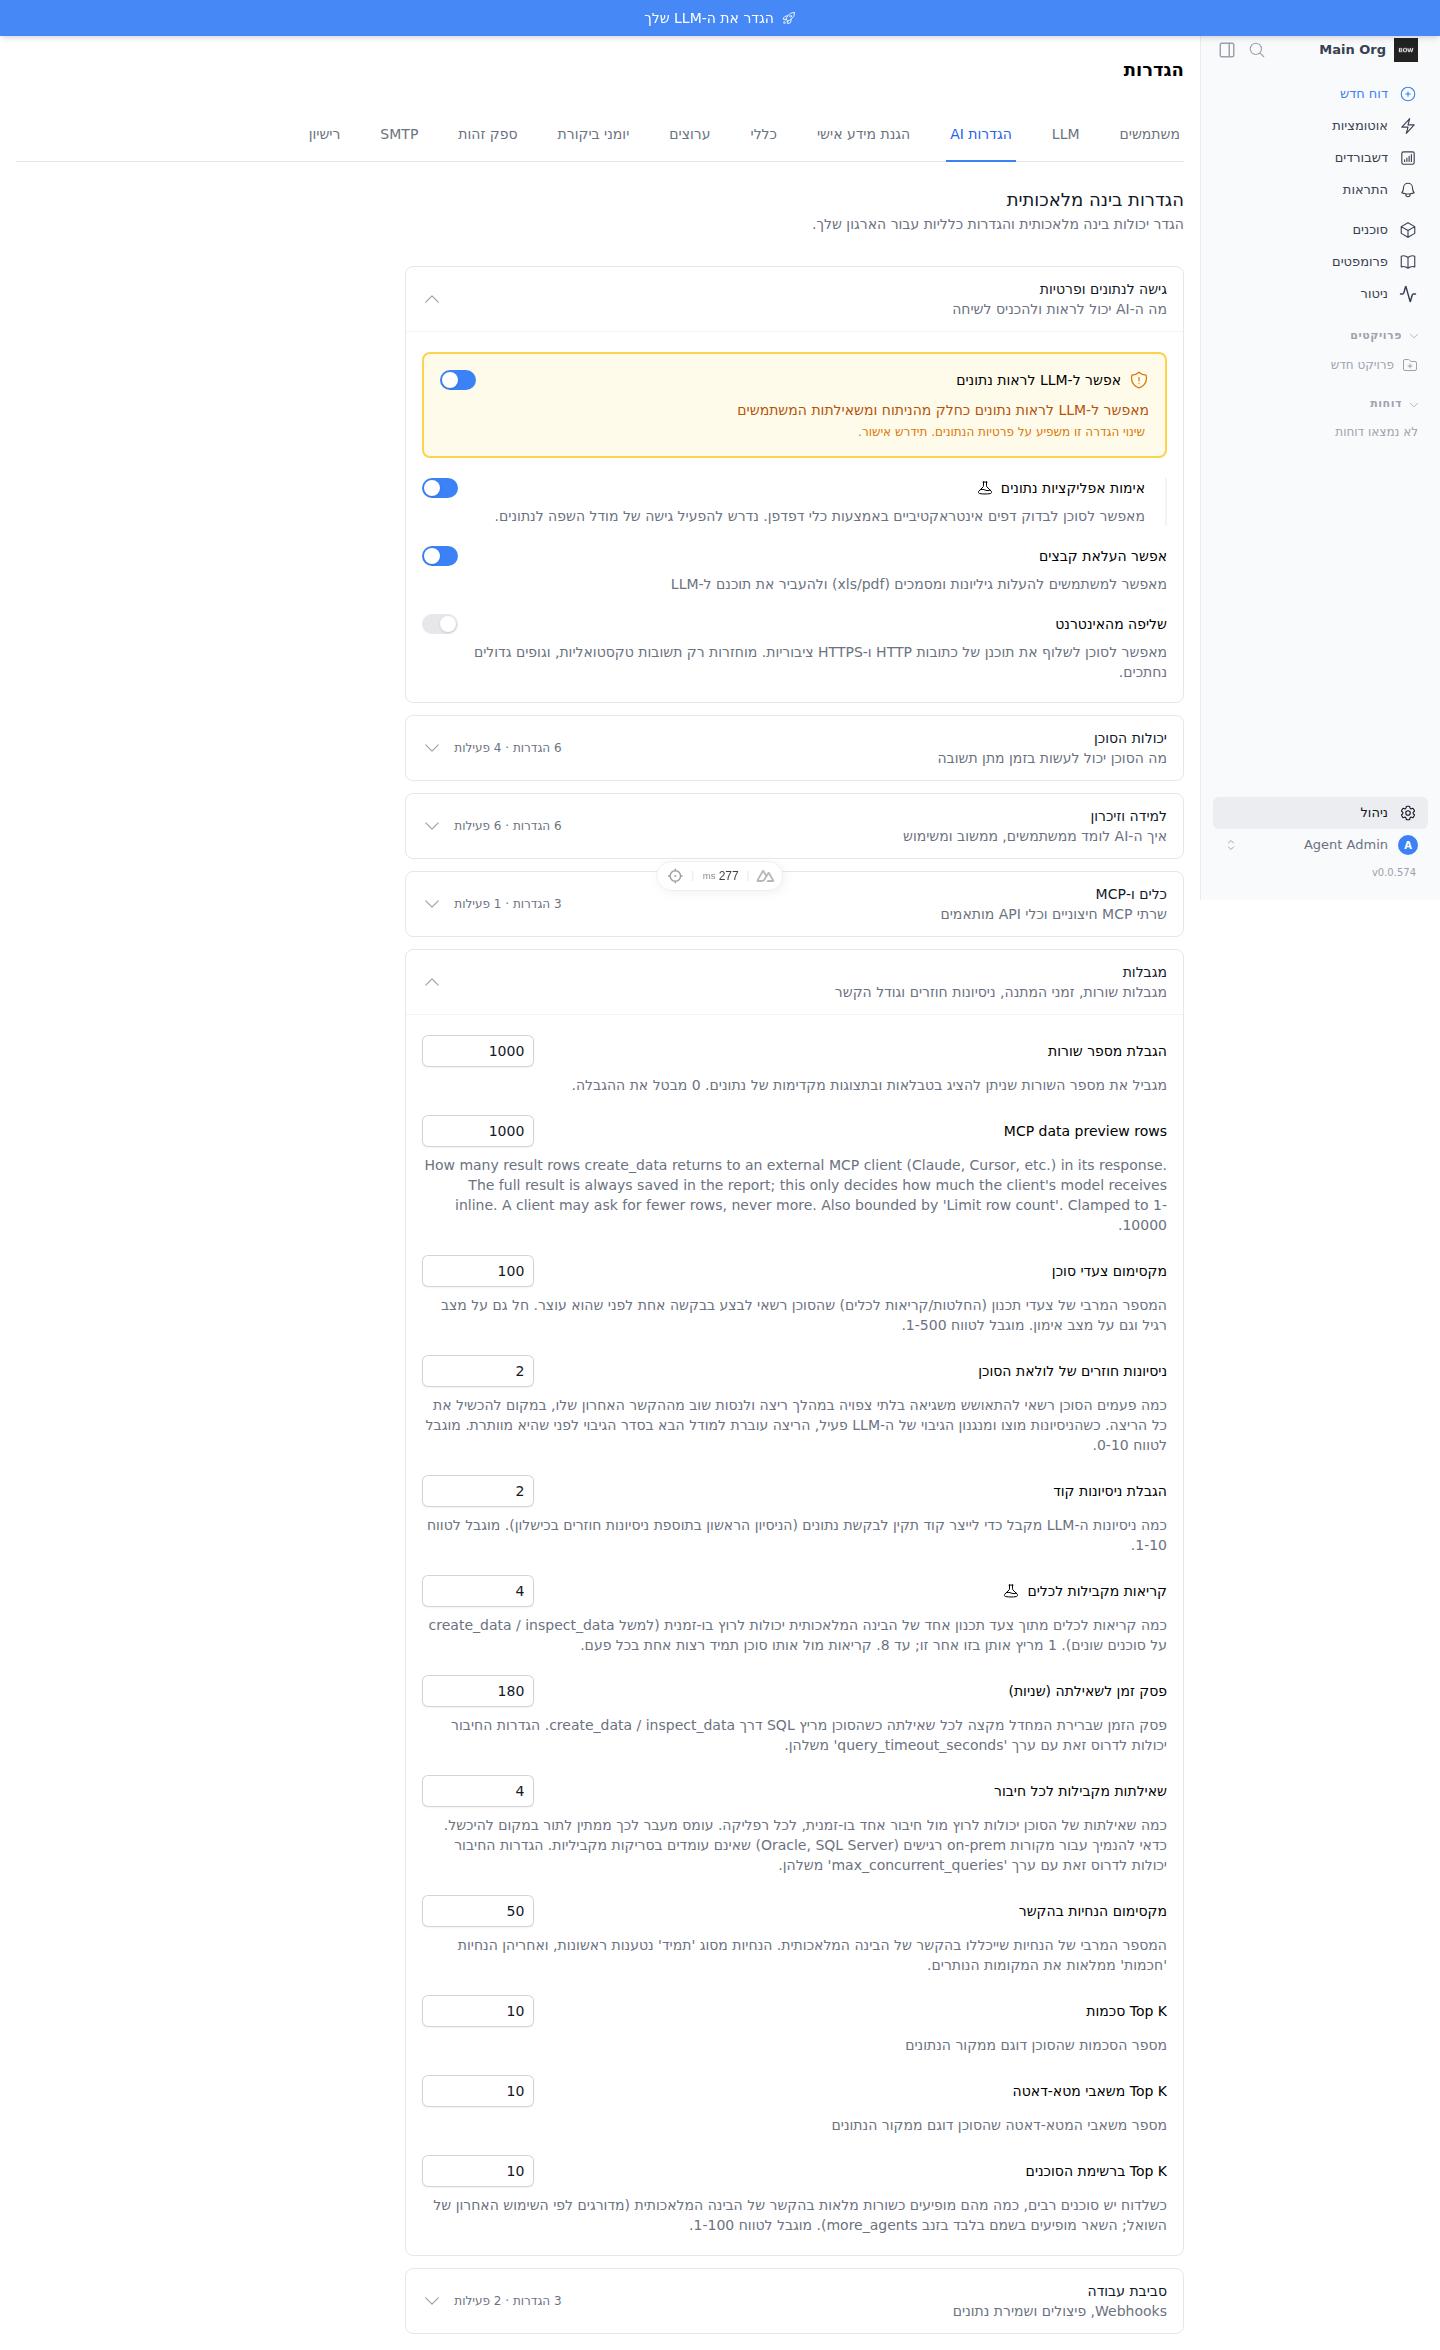
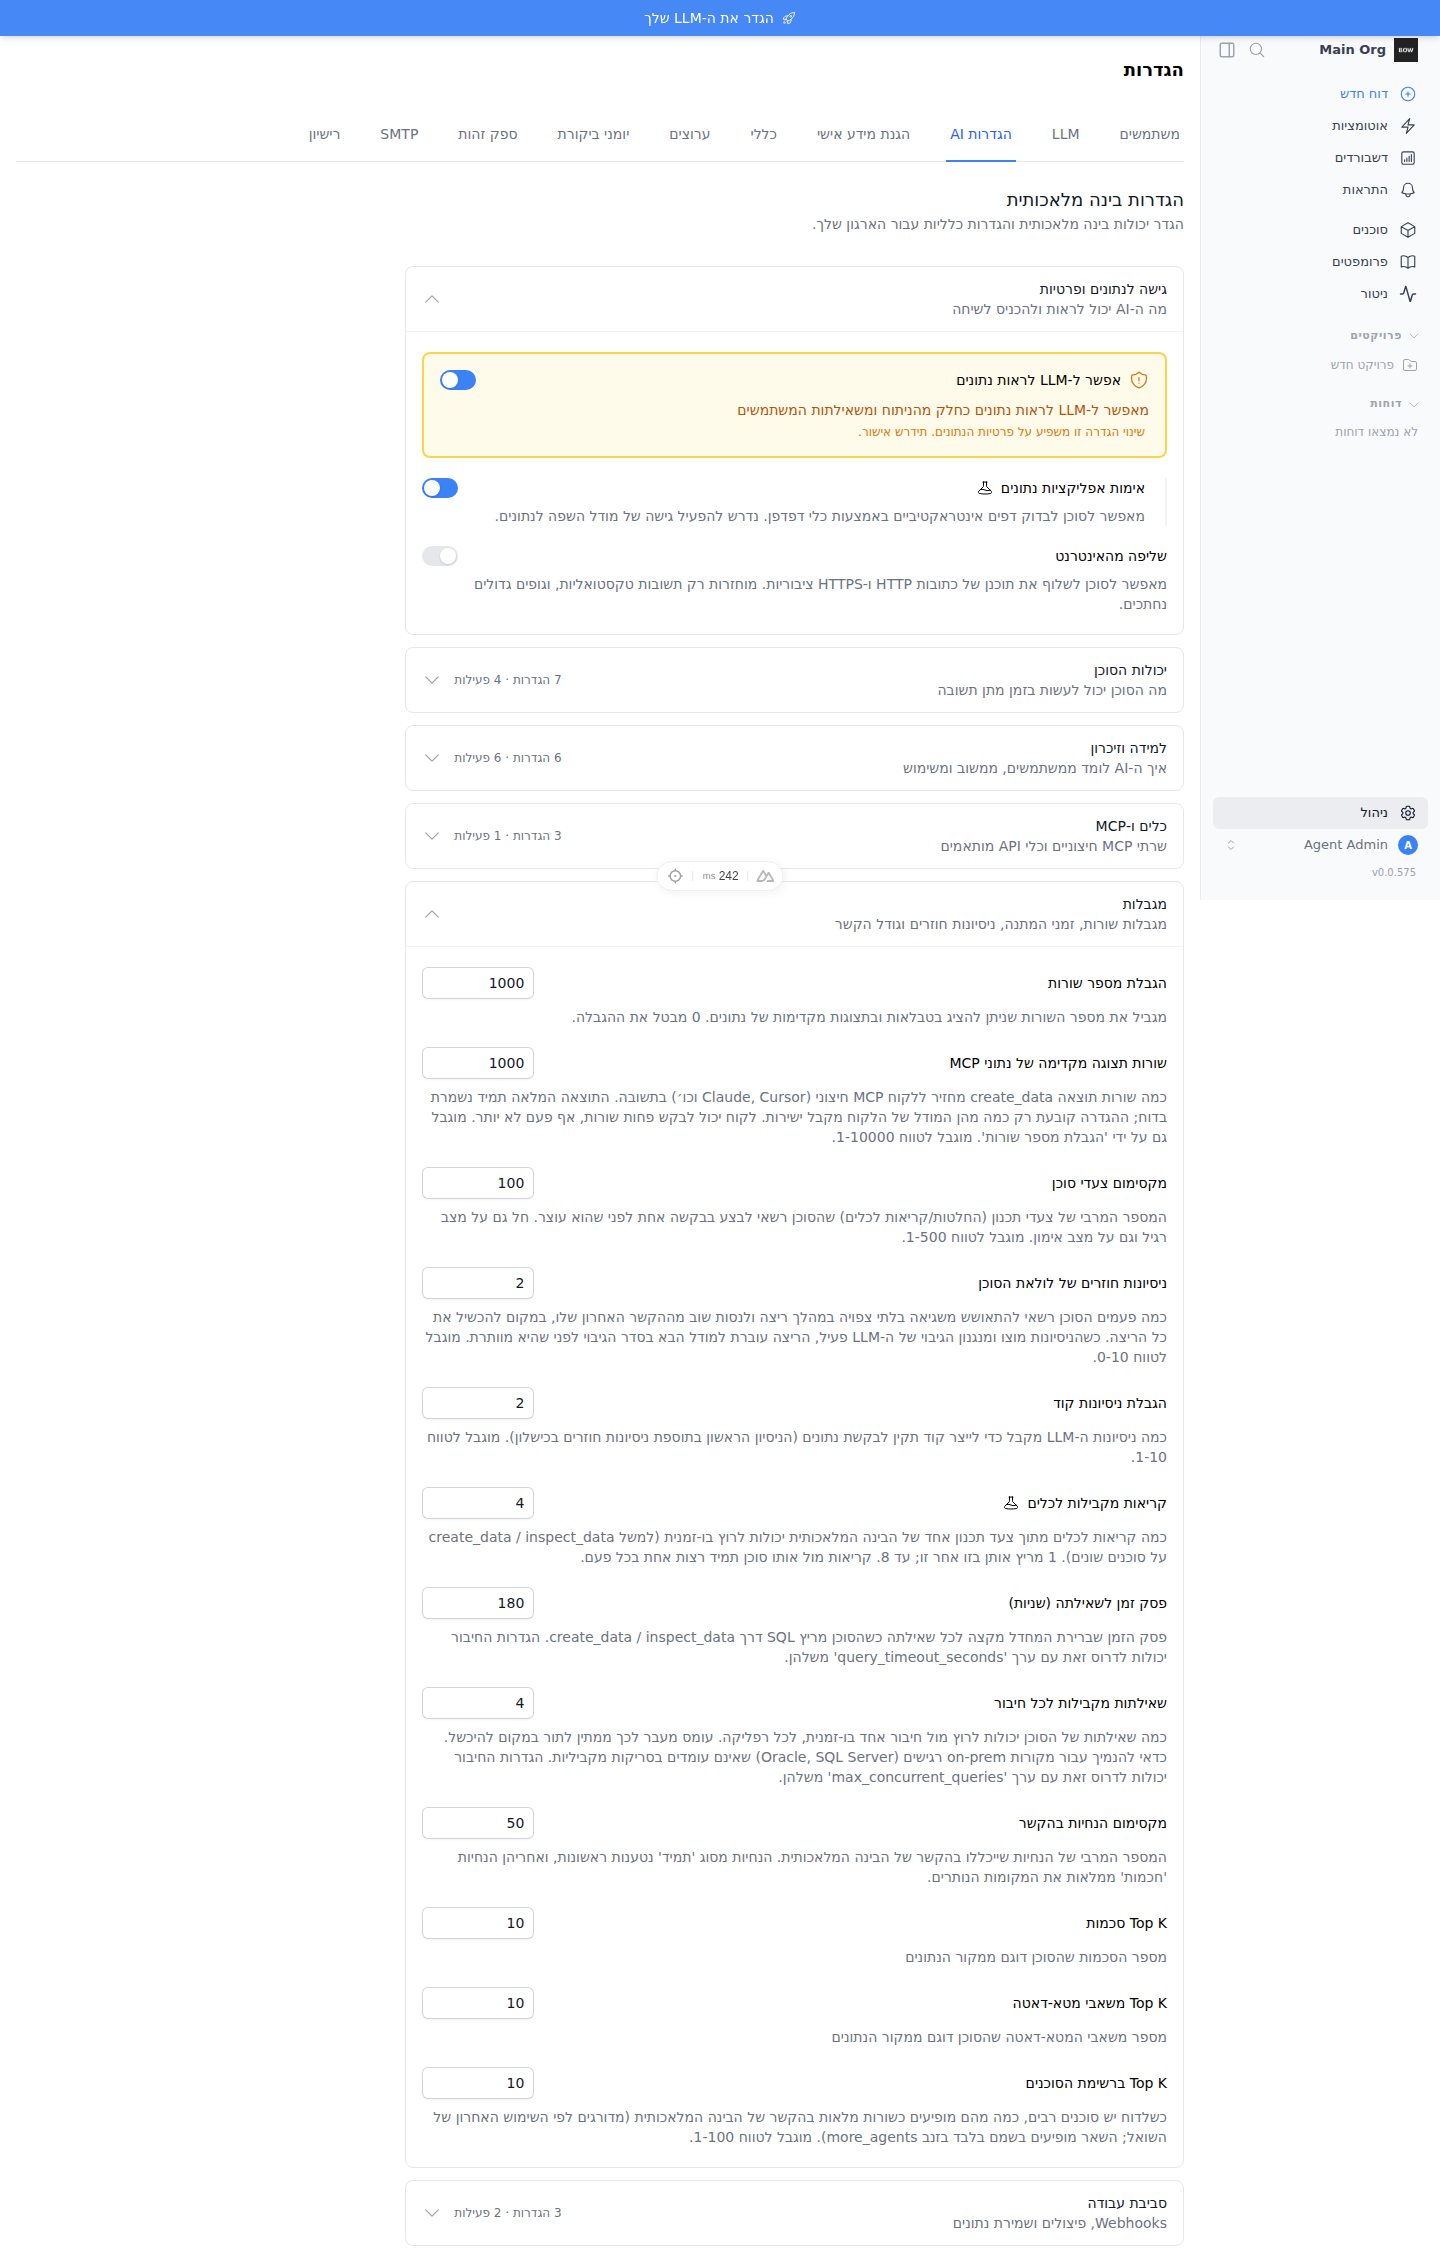
Hide file upload toggle, place artifact resources, fill AI settings strings
- Hide "Allow file upload": the setting is not enforced (the upload
  routes and the attach button ignore it), so a switch would promise a
  control that does not exist. Drop the matching "(you can disable file
  uploads separately)" clause from the Allow-LLM-see-data dialog.
- Put enable_artifact_resources (from the artifact-resources base) under
  Agent capabilities.
- Add the missing mcp_create_data_preview_rows name/description in all 10
  locales; it was falling back to the backend's English text.
- Add a no-op alembic merge (mrg1003) for the artres01 and saml1001 heads
  that met when the base branch was merged in.

Claude-Session: https://claude.ai/code/session_01HUpPgozaMqfJ9qjFiCsD7B

diff --git a/frontend/pages/settings/ai_settings.vue b/frontend/pages/settings/ai_settings.vue
@@ -234,8 +234,8 @@ const FEATURE_PARENT: Record<string, string> = {
 // Dependents (FEATURE_PARENT) are placed automatically after their parent.
 // A backend setting not listed here lands in "other" so it never disappears.
 const SECTIONS: { id: string, keys: string[] }[] = [
-    { id: 'data', keys: ['allow_llm_see_data', 'enable_file_upload', 'enable_web_fetch'] },
-    { id: 'capabilities', keys: ['enable_training_mode', 'enable_agent_notes', 'enable_load_step', 'enable_ml_training', 'enable_custom_queries', 'enable_follow_ups'] },
+    { id: 'data', keys: ['allow_llm_see_data', 'enable_web_fetch'] },
+    { id: 'capabilities', keys: ['enable_training_mode', 'enable_agent_notes', 'enable_load_step', 'enable_ml_training', 'enable_custom_queries', 'enable_artifact_resources', 'enable_follow_ups'] },
     { id: 'learning', keys: ['enable_user_memory', 'suggest_instructions', 'enable_llm_judgement', 'auto_suggest_evals', 'enable_agent_dreaming', 'enable_agent_checkins'] },
     { id: 'tools', keys: ['enable_mcp_tools', 'enable_mcp_native_tools', 'mcp_result_inline_chars'] },
     { id: 'limits', keys: ['limit_row_count', 'mcp_create_data_preview_rows', 'agent_max_steps', 'agent_loop_retries', 'limit_code_retries', 'ai_tool_concurrency', 'query_timeout_seconds', 'max_concurrent_queries_per_connection', 'max_instructions_in_context', 'top_k_schema', 'top_k_metadata_resources', 'agent_roster_top_k'] },
@@ -247,13 +247,18 @@ const SECTIONS: { id: string, keys: string[] }[] = [
 // add-in). Not repeated here so there is one place to change each.
 const MANAGED_ELSEWHERE = new Set(['model_routing', 'llm_fallback', 'mcp_enabled', 'enable_excel_addin'])
 
+// Settings with no UI for now. enable_file_upload is not enforced yet (the
+// upload routes and the attach button ignore it), so a switch here would
+// promise a control it does not provide.
+const HIDDEN = new Set(['enable_file_upload'])
+
 const configFeatures = ref<Record<string, Feature>>({})
 
 interface Section { id: string, keys: string[], total: number, on: number, booleans: number, hasLocked: boolean }
 
 const visibleSections = computed<Section[]>(() => {
     const cfg = configFeatures.value
-    const placed = new Set<string>([...MANAGED_ELSEWHERE, ...Object.keys(FEATURE_PARENT)])
+    const placed = new Set<string>([...MANAGED_ELSEWHERE, ...HIDDEN, ...Object.keys(FEATURE_PARENT)])
     const groups = SECTIONS.map(s => ({ id: s.id, keys: s.keys.filter(k => cfg[k]) }))
     for (const g of groups) g.keys.forEach(k => placed.add(k))
     const other = Object.keys(cfg).filter(k => !placed.has(k))

diff --git a/backend/alembic/versions/mrg1003_merge_artifact_resources_and_saml.py b/backend/alembic/versions/mrg1003_merge_artifact_resources_and_saml.py
@@ -1,0 +1,24 @@
+"""merge artifact-resources and saml heads
+
+Revision ID: mrg1003
+Revises: artres01, saml1001
+Create Date: 2026-10-03 00:00:00.000000
+
+No-op merge: the artifact resources branch (artres01) and the SAML branch
+(saml1001) were developed in parallel and each added a head.
+"""
+from typing import Sequence, Union
+
+
+revision: str = 'mrg1003'
+down_revision: Union[str, Sequence[str], None] = ('artres01', 'saml1001')
+branch_labels: Union[str, Sequence[str], None] = None
+depends_on: Union[str, Sequence[str], None] = None
+
+
+def upgrade() -> None:
+    pass
+
+
+def downgrade() -> None:
+    pass
